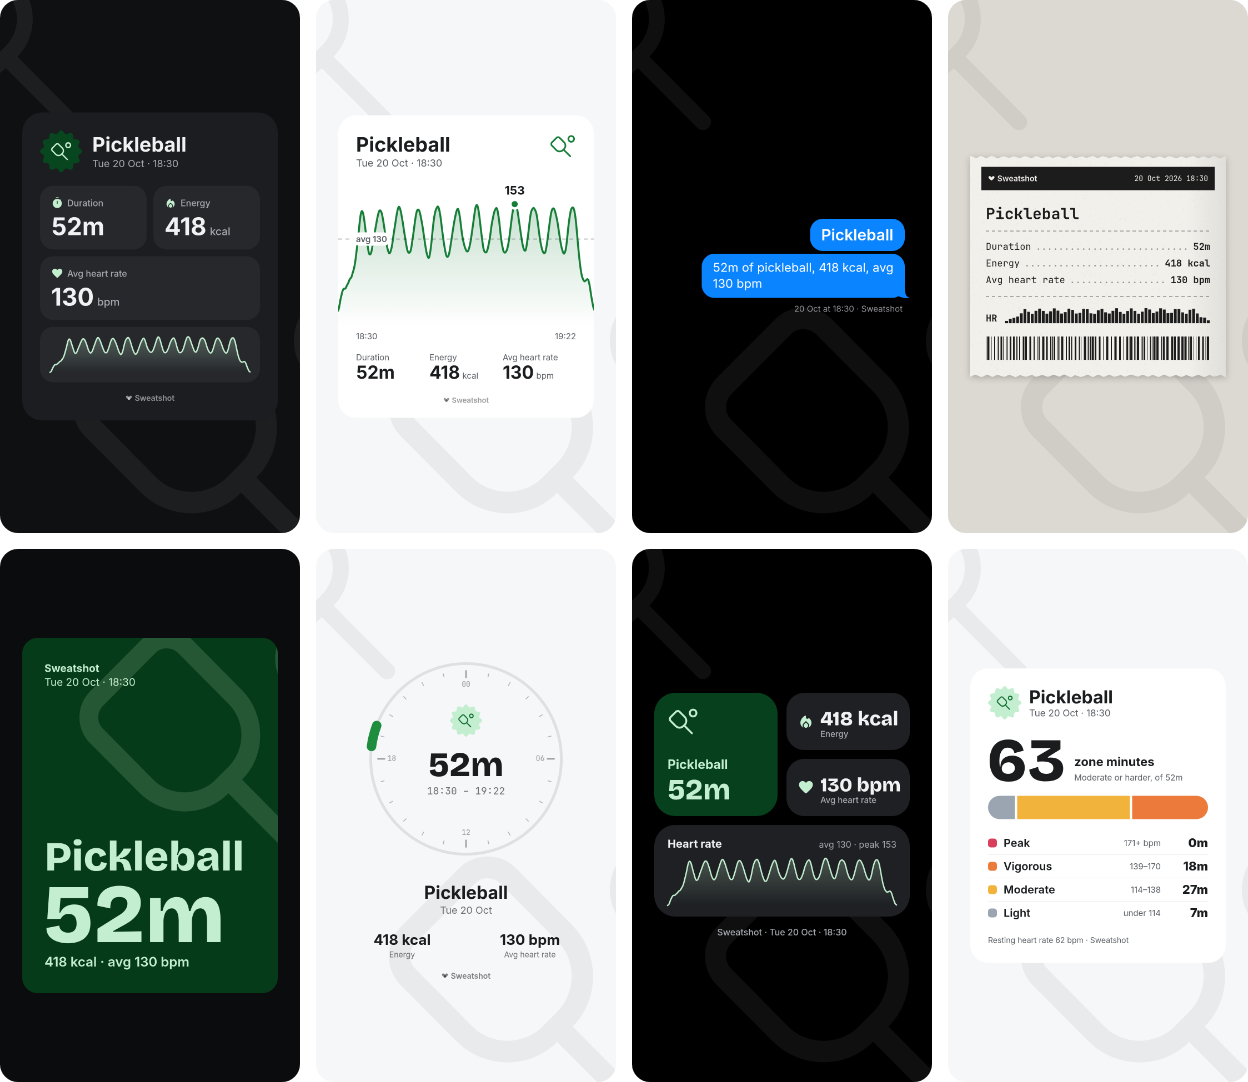
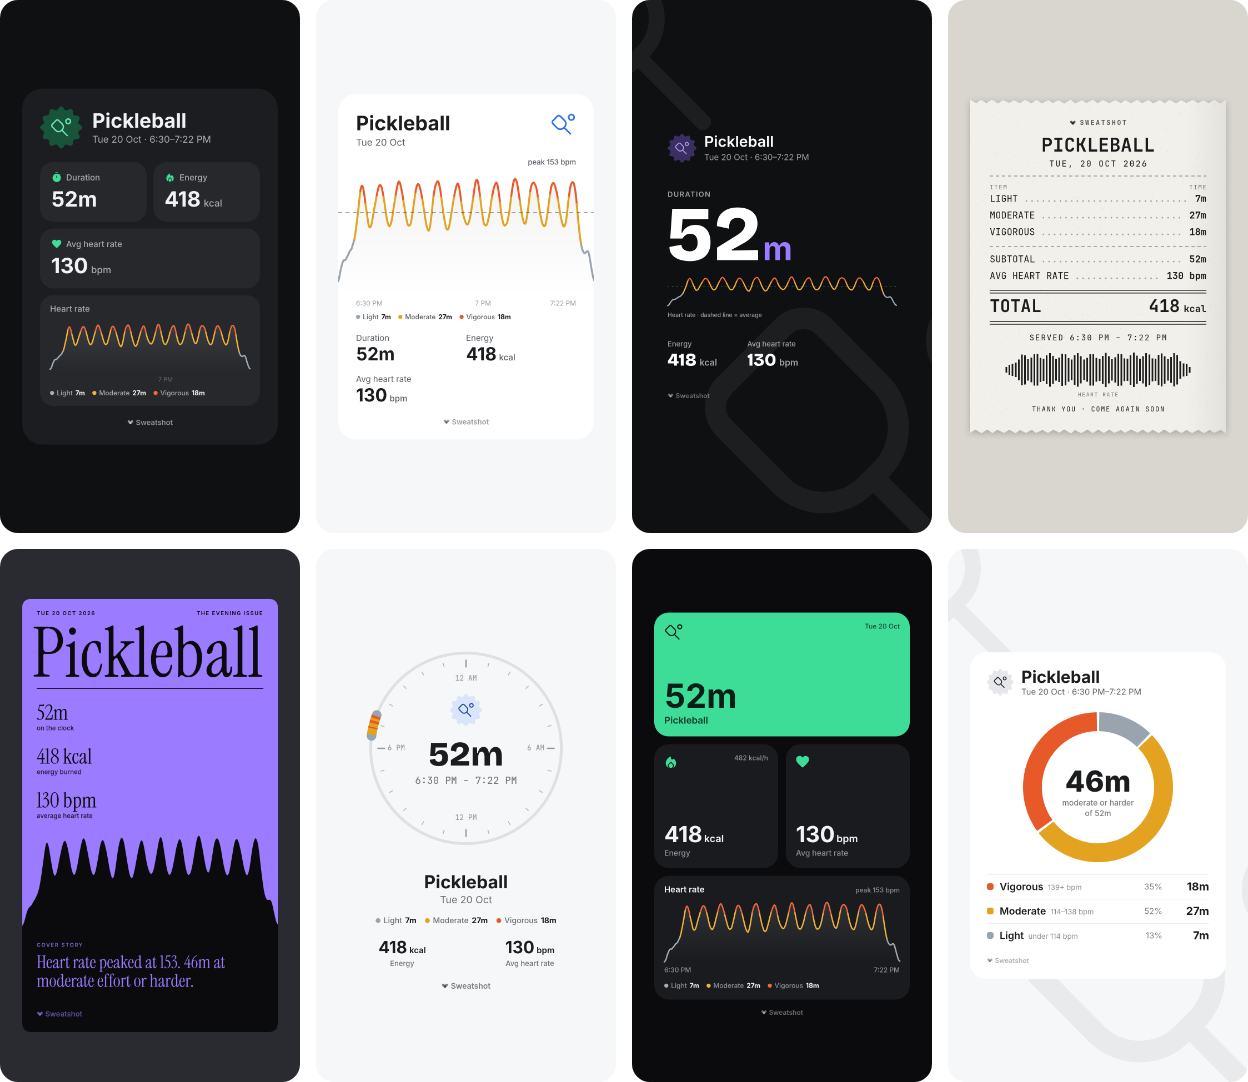
Day dial: colour the arc by the main zone of each stretch; refresh README images
Claude-Session: https://claude.ai/code/session_01U9u7YdTgxdgb6z5duwsvjE

diff --git a/src/render/designs/dial.ts b/src/render/designs/dial.ts
@@ -16,7 +16,7 @@ const UNIT = 30;
 const LABEL = 26;
 const STATS_H = VALUE + 14 + LABEL * 1.2;
 const LOGO = 28;
-/** Zone runs shorter than this merge into the run before (the arc is ~0.25° a minute). */
+/** Shortest stretch the arc colours on its own (the arc is ~0.25° a minute). */
 const MIN_RUN_SEC = 180;
 
 function colors(opts: CardOptions) {
@@ -51,27 +51,39 @@ const angle = (min: number) => (min / 1440) * Math.PI * 2 - Math.PI / 2;
 
 type Run = { zone: number; t0: number; t1: number };
 
-/** Stretches of the session in one zone (seconds from the start), with short blips merged away. */
+/**
+ * Stretches of the session in one zone (seconds from the start). The session is cut into short
+ * windows (≥ MIN_RUN_SEC) and each takes the zone it spent most time in, so brief blips vanish
+ * without swallowing a session that swings between zones.
+ */
 function zoneRuns(data: CardData): Run[] {
   const z = data.zones;
   const s = data.hrSeries;
   if (!z || s.length < 2) return [];
   const dur = Math.max(data.durationSec, s[s.length - 1].t);
-  const runs: Run[] = [];
+  const win = Math.max(MIN_RUN_SEC, dur / 60);
+  const n = Math.max(1, Math.round(dur / win));
+  const time = Array.from({ length: n }, () => [0, 0, 0, 0]);
   s.forEach((p, i) => {
     const t0 = i === 0 ? 0 : (s[i - 1].t + p.t) / 2;
     const t1 = i === s.length - 1 ? dur : (p.t + s[i + 1].t) / 2;
     const zone = hrrZone(p.bpm, z.restingHr, z.maxHr);
-    const last = runs[runs.length - 1];
-    if (last && last.zone === zone) last.t1 = t1;
-    else runs.push({ zone, t0, t1 });
+    // Spread this sample's time over the windows it overlaps.
+    for (let w = Math.floor((t0 / dur) * n); w < n && (w * dur) / n < t1; w++) {
+      const lo = Math.max(t0, (w * dur) / n);
+      const hi = Math.min(t1, ((w + 1) * dur) / n);
+      if (hi > lo) time[w][zone] += hi - lo;
+    }
   });
   const out: Run[] = [];
-  for (const r of runs) {
+  time.forEach((t, w) => {
+    const zone = t.indexOf(Math.max(...t));
+    const t0 = (w * dur) / n;
+    const t1 = ((w + 1) * dur) / n;
     const last = out[out.length - 1];
-    if (last && (r.t1 - r.t0 < MIN_RUN_SEC || last.zone === r.zone)) last.t1 = r.t1;
-    else out.push({ ...r });
-  }
+    if (last && last.zone === zone) last.t1 = t1;
+    else out.push({ zone, t0, t1 });
+  });
   return out;
 }
 
